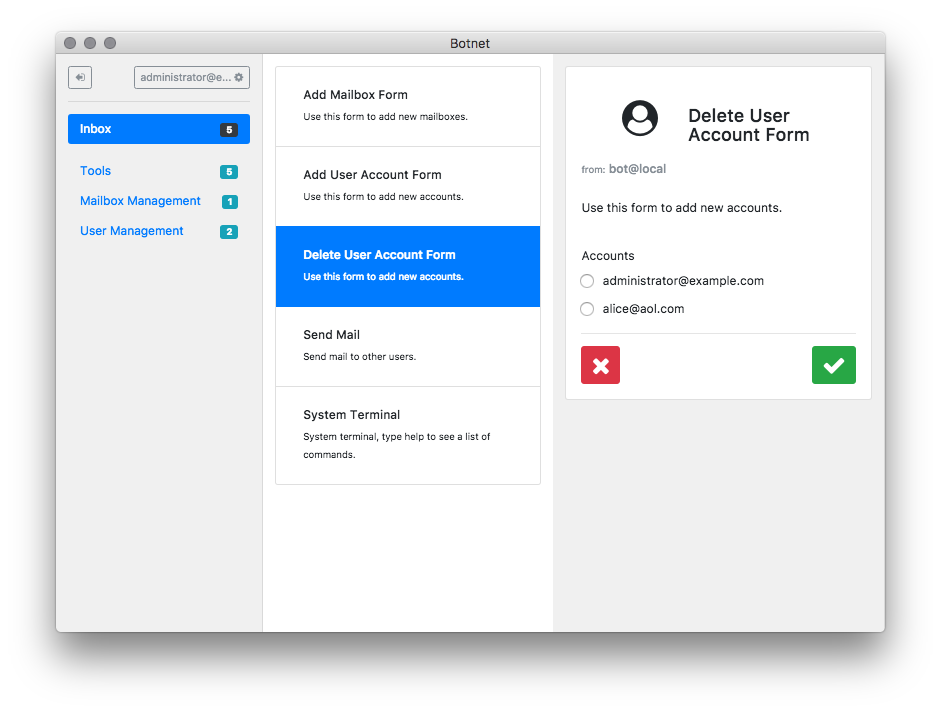
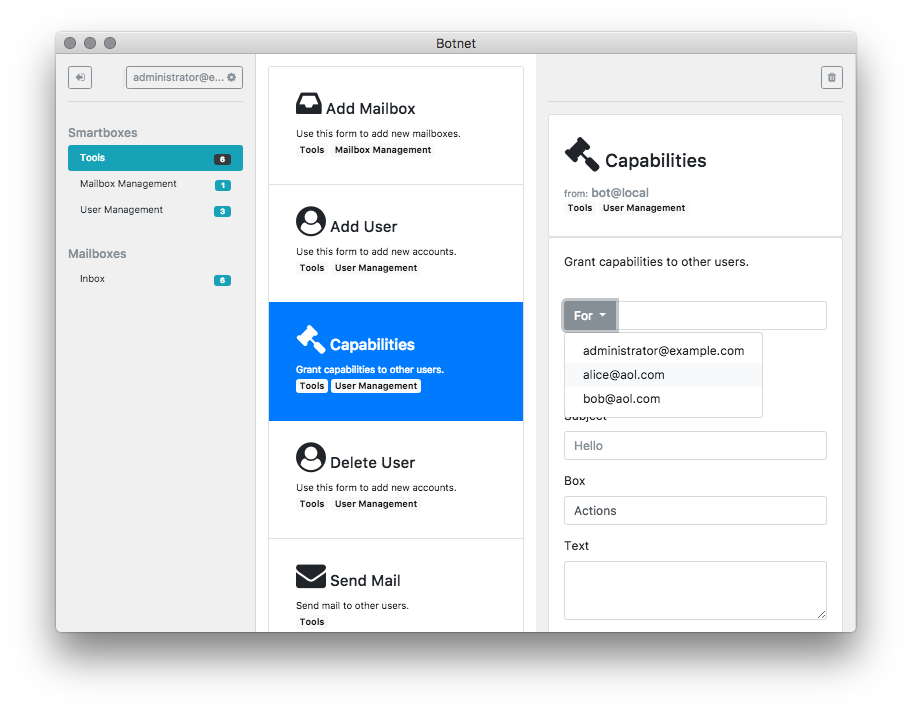
Primary Screenshot

diff --git a/renderer.js b/renderer.js
@@ -128,7 +128,7 @@ async function main(options) {
 
     methods: {
 
-      isActive(smartbox, active = "bg-info text-white", inactive = "text-muted") {
+      isActive(smartbox, active = "bg-info text-white", inactive = "text-dark") {
         // TODO IS ACTIVE API CLEANUP
         return (this.$store.state.local.selected.smartbox === smartbox._id) ? active : inactive;
       },
@@ -176,7 +176,9 @@ async function main(options) {
     },
 
     template: `
-        <div class="app-mailboxes mb-3">
+        <div class="app-mailboxes py-3">
+
+        <h6 class="text-muted">Mailboxes</h6>
 
         <div v-if="showMore" class="d-none card">
           <ul class="list-group list-group-flush">
@@ -193,7 +195,7 @@ async function main(options) {
 
         <ul v-if="!showMore" class="nav nav-pills flex-column">
           <li  v-for="mailbox in mailboxes" class="nav-item hoverable">
-            <a class="nav-link" v-bind:class="isActive(mailbox)" v-on:click.prevent="selectMailbox(mailbox)" href="" v-bind:title="mailbox.description">{{mailbox.name}} <span class="badge pull-right px-2 my-1" v-bind:class="isActive(mailbox, 'badge-dark', 'badge-info')">{{messageCount(mailbox)}}</span> </a>
+            <a class="nav-link small" v-bind:class="isActive(mailbox)" v-on:click.prevent="selectMailbox(mailbox)" href="" v-bind:title="mailbox.description">{{mailbox.name}} <span class="badge pull-right px-2 my-1" v-bind:class="isActive(mailbox, 'badge-dark', 'badge-info')">{{messageCount(mailbox)}}</span> </a>
           </li>
         </ul>
 
@@ -207,7 +209,7 @@ async function main(options) {
 
     methods: {
 
-      isActive(smartbox, active = "bg-info text-white", inactive = "text-muted") {
+      isActive(smartbox, active = "bg-info text-white", inactive = "text-dark") {
         // TODO: Improve isSelected API
         return (this.$store.state.local.selected.smartbox === smartbox.name) ? active : inactive;
       },
@@ -244,10 +246,13 @@ async function main(options) {
     },
 
     template: `
-        <div class="app-mailboxes mb-3">
+        <div class="app-mailboxes py-3">
+
+        <h6 class="text-muted">Smartboxes</h6>
+
           <ul class="nav nav-pills flex-column">
             <li  v-for="smartbox in smartboxes" class="nav-item hoverable">
-              <a class="nav-link" v-bind:class="isActive(smartbox)" v-on:click.prevent="selectSmartbox(smartbox)" href="" v-bind:title="smartbox.description">{{smartbox.name}} <span class="badge pull-right px-2 my-1" v-bind:class="isActive(smartbox, 'badge-dark', 'badge-info')">{{messageCount(smartbox)}}</span> </a>
+              <a class="nav-link small" v-bind:class="isActive(smartbox)" v-on:click.prevent="selectSmartbox(smartbox)" href="" v-bind:title="smartbox.description">{{smartbox.name}} <span class="badge pull-right px-2 my-1" v-bind:class="isActive(smartbox, 'badge-dark', 'badge-info')">{{messageCount(smartbox)}}</span> </a>
             </li>
           </ul>
         </div>
@@ -291,6 +296,7 @@ async function main(options) {
 
     template: `
         <div class="app-messages mb-3">
+
 
           <div v-if="messages.length > 0" class="card">
             <ul class="list-group list-group-flush">
